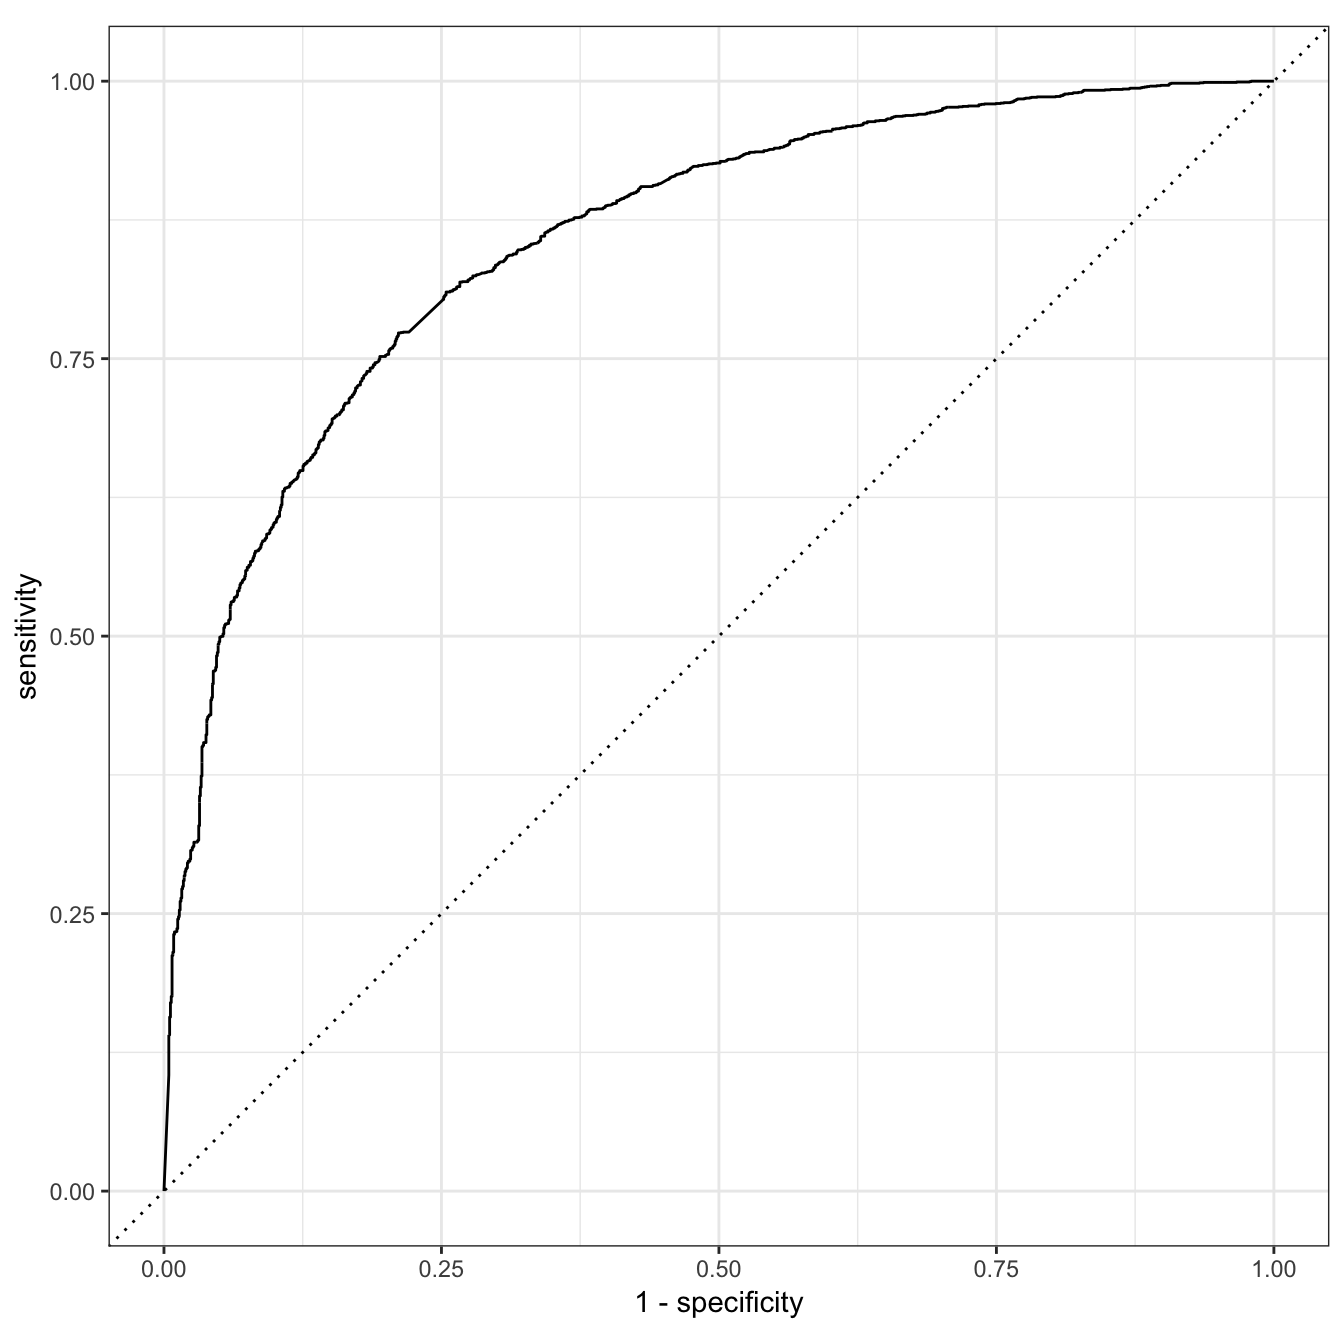
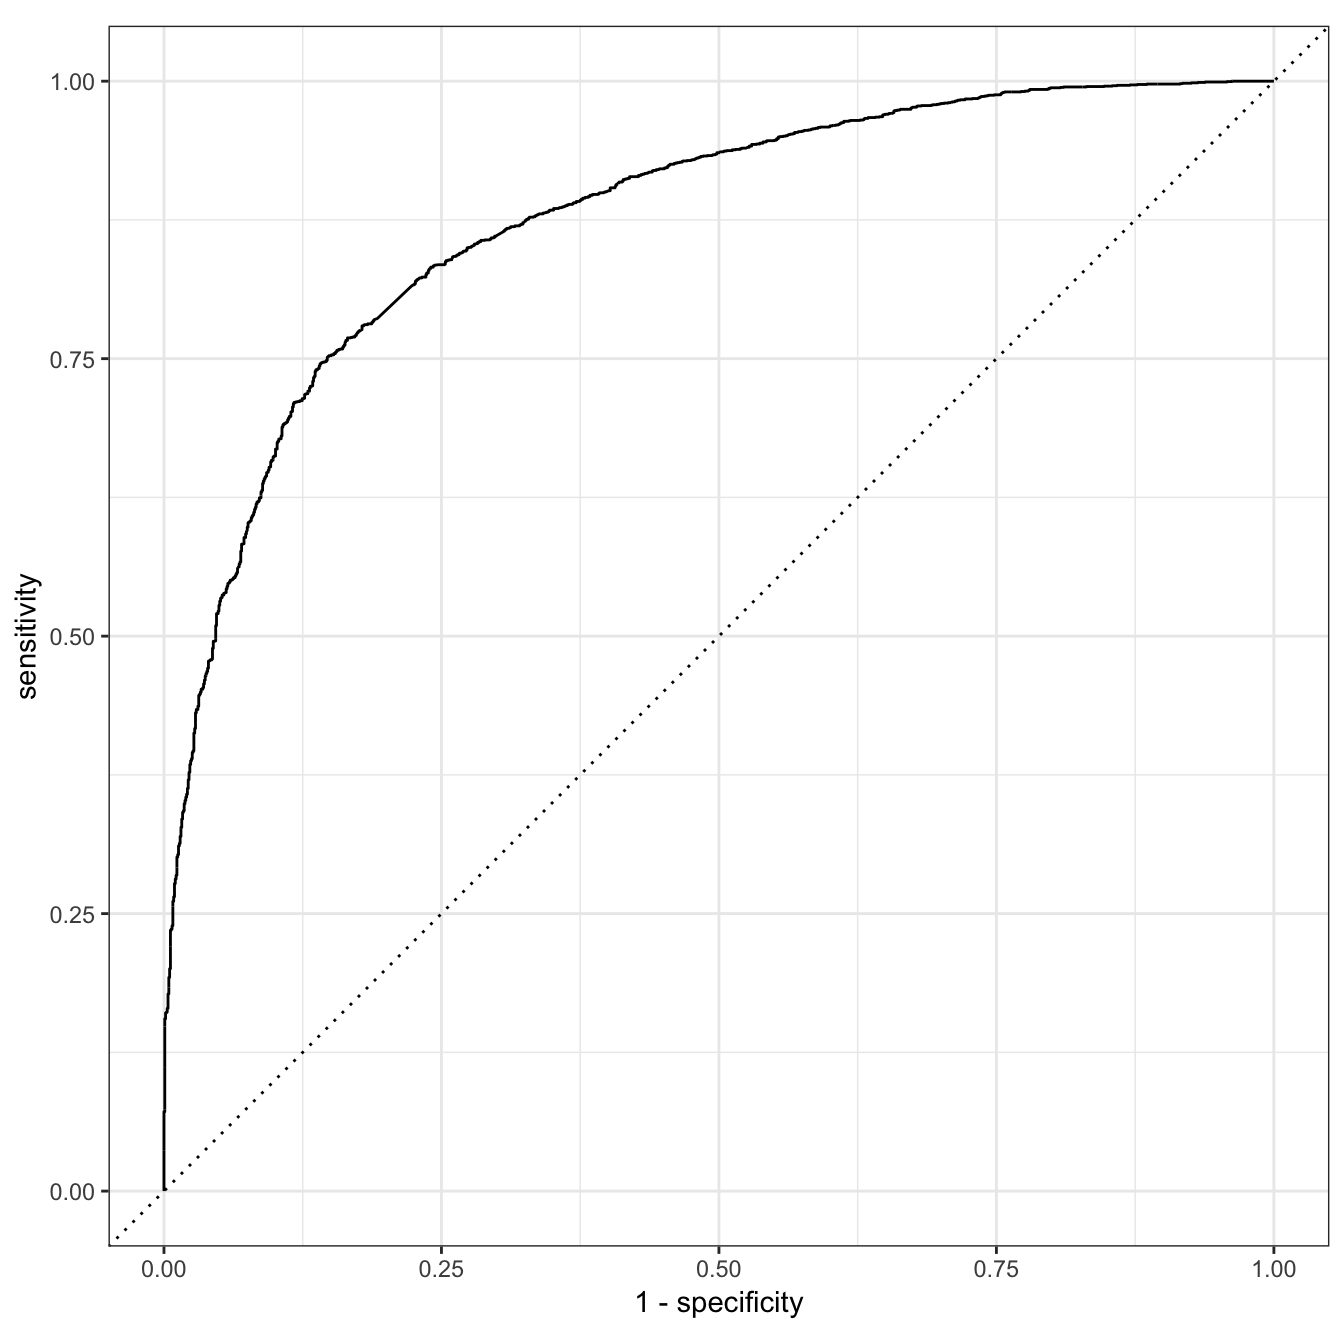
change engine from glm to glmnet

diff --git a/content/blog/2018-12-29-text-classification-with-tidymodels.html b/content/blog/2018-12-29-text-classification-with-tidymodels.html
@@ -129,25 +129,33 @@ stopwords(language = &quot;en&quot;, source = &quot;snowball&quot;) %&gt;% sort(
 <pre class="r"><code>library(tokenizers)
 tokenize_ngrams(sentence, n = 3)</code></pre>
 <pre><code>## [[1]]
-##  [1] &quot;this a sample&quot;        &quot;a sample sentence&quot;    &quot;sample sentence that&quot;
-##  [4] &quot;sentence that is&quot;     &quot;that is used&quot;         &quot;is used to&quot;          
-##  [7] &quot;used to explain&quot;      &quot;to explain the&quot;       &quot;explain the concept&quot; 
-## [10] &quot;the concept of&quot;       &quot;concept of ngrams&quot;</code></pre>
+##  [1] &quot;this an example&quot;       &quot;an example sentence&quot;  
+##  [3] &quot;example sentence that&quot; &quot;sentence that is&quot;     
+##  [5] &quot;that is used&quot;          &quot;is used to&quot;           
+##  [7] &quot;used to explain&quot;       &quot;to explain the&quot;       
+##  [9] &quot;explain the concept&quot;   &quot;the concept of&quot;       
+## [11] &quot;concept of ngrams&quot;</code></pre>
 <p>however we would also like to the singular word counts (unigrams) and bigrams (ngrams of length 2). This can easily be done by setting the <code>n_min</code> argument.</p>
 <pre class="r"><code>tokenize_ngrams(sentence, n = 3, n_min = 1)</code></pre>
 <pre><code>## [[1]]
-##  [1] &quot;this&quot;                 &quot;this a&quot;               &quot;this a sample&quot;       
-##  [4] &quot;a&quot;                    &quot;a sample&quot;             &quot;a sample sentence&quot;   
-##  [7] &quot;sample&quot;               &quot;sample sentence&quot;      &quot;sample sentence that&quot;
-## [10] &quot;sentence&quot;             &quot;sentence that&quot;        &quot;sentence that is&quot;    
-## [13] &quot;that&quot;                 &quot;that is&quot;              &quot;that is used&quot;        
-## [16] &quot;is&quot;                   &quot;is used&quot;              &quot;is used to&quot;          
-## [19] &quot;used&quot;                 &quot;used to&quot;              &quot;used to explain&quot;     
-## [22] &quot;to&quot;                   &quot;to explain&quot;           &quot;to explain the&quot;      
-## [25] &quot;explain&quot;              &quot;explain the&quot;          &quot;explain the concept&quot; 
-## [28] &quot;the&quot;                  &quot;the concept&quot;          &quot;the concept of&quot;      
-## [31] &quot;concept&quot;              &quot;concept of&quot;           &quot;concept of ngrams&quot;   
-## [34] &quot;of&quot;                   &quot;of ngrams&quot;            &quot;ngrams&quot;</code></pre>
+##  [1] &quot;this&quot;                  &quot;this an&quot;              
+##  [3] &quot;this an example&quot;       &quot;an&quot;                   
+##  [5] &quot;an example&quot;            &quot;an example sentence&quot;  
+##  [7] &quot;example&quot;               &quot;example sentence&quot;     
+##  [9] &quot;example sentence that&quot; &quot;sentence&quot;             
+## [11] &quot;sentence that&quot;         &quot;sentence that is&quot;     
+## [13] &quot;that&quot;                  &quot;that is&quot;              
+## [15] &quot;that is used&quot;          &quot;is&quot;                   
+## [17] &quot;is used&quot;               &quot;is used to&quot;           
+## [19] &quot;used&quot;                  &quot;used to&quot;              
+## [21] &quot;used to explain&quot;       &quot;to&quot;                   
+## [23] &quot;to explain&quot;            &quot;to explain the&quot;       
+## [25] &quot;explain&quot;               &quot;explain the&quot;          
+## [27] &quot;explain the concept&quot;   &quot;the&quot;                  
+## [29] &quot;the concept&quot;           &quot;the concept of&quot;       
+## [31] &quot;concept&quot;               &quot;concept of&quot;           
+## [33] &quot;concept of ngrams&quot;     &quot;of&quot;                   
+## [35] &quot;of ngrams&quot;             &quot;ngrams&quot;</code></pre>
 <p>Now we get unigrams, bigrams and trigrams in one. But wait, we wanted to limit our focus to stop words. Here is how the end result will look once we exclude all non-stop words and perform the ngram operation.</p>
 <pre class="r"><code>tokenize_words(sentence) %&gt;%
   unlist() %&gt;%
@@ -155,12 +163,13 @@ tokenize_ngrams(sentence, n = 3)</code></pre>
   paste(collapse = &quot; &quot;) %&gt;%
   print() %&gt;%
   tokenize_ngrams(n = 3, n_min = 1)</code></pre>
-<pre><code>## [1] &quot;this a that is to the of&quot;</code></pre>
+<pre><code>## [1] &quot;this an that is to the of&quot;</code></pre>
 <pre><code>## [[1]]
-##  [1] &quot;this&quot;        &quot;this a&quot;      &quot;this a that&quot; &quot;a&quot;           &quot;a that&quot;     
-##  [6] &quot;a that is&quot;   &quot;that&quot;        &quot;that is&quot;     &quot;that is to&quot;  &quot;is&quot;         
-## [11] &quot;is to&quot;       &quot;is to the&quot;   &quot;to&quot;          &quot;to the&quot;      &quot;to the of&quot;  
-## [16] &quot;the&quot;         &quot;the of&quot;      &quot;of&quot;</code></pre>
+##  [1] &quot;this&quot;         &quot;this an&quot;      &quot;this an that&quot; &quot;an&quot;          
+##  [5] &quot;an that&quot;      &quot;an that is&quot;   &quot;that&quot;         &quot;that is&quot;     
+##  [9] &quot;that is to&quot;   &quot;is&quot;           &quot;is to&quot;        &quot;is to the&quot;   
+## [13] &quot;to&quot;           &quot;to the&quot;       &quot;to the of&quot;    &quot;the&quot;         
+## [17] &quot;the of&quot;       &quot;of&quot;</code></pre>
 <p>We have quite a reduction in ngrams then the full sentence, but hopefully there is some information within.</p>
 </div>
 <div id="training-testing-split" class="section level2">
@@ -273,7 +282,7 @@ str(stopword_train_data, list.len = 10)</code></pre>
 <h2>Modeling</h2>
 <p>For modeling we will be using the <a href="https://github.com/tidymodels/parsnip">parsnip</a> package from tidymodels. First we start by defining a model specification. This defines the intent of our model, what we want to do, not what we want to do it on. Meaning we don’t include the data yet, just the kind of model, its hyperparameters and the engine (the package that will do the work). We will be be using glmnet package here so we will specify a logistic regression model</p>
 <pre class="r"><code>glmnet_model &lt;- logistic_reg(mixture = 0, penalty = 0.1) %&gt;%
-  set_engine(&quot;glm&quot;)
+  set_engine(&quot;glmnet&quot;)
 glmnet_model</code></pre>
 <pre><code>## Logistic Regression Model Specification (classification)
 ## 
@@ -281,8 +290,8 @@ glmnet_model</code></pre>
 ##   penalty = 0.1
 ##   mixture = 0
 ## 
-## Computational engine: glm</code></pre>
-<p>Here we will fit the models using both our training data, first using the stop words, then using the simple would count approach. This will take a while as we are dealing with over 1000 features in both cases.</p>
+## Computational engine: glmnet</code></pre>
+<p>Here we will fit the models using both our training data, first using the stop words, then using the simple would count approach.</p>
 <pre class="r"><code>stopword_model &lt;- glmnet_model %&gt;%
   fit(title ~ ., data = stopword_train_data)
 
@@ -306,28 +315,28 @@ eval_tibble</code></pre>
 <pre><code>## # A tibble: 4,058 x 5
 ##    title         class_stopword    class_julia     prop_stopword prop_julia
 ##    &lt;fct&gt;         &lt;fct&gt;             &lt;fct&gt;                   &lt;dbl&gt;      &lt;dbl&gt;
-##  1 The War of t… Pride and Prejud… Pride and Prej…        0.0493     0.0228
-##  2 The War of t… Pride and Prejud… The War of the…        0.365      0.852 
-##  3 The War of t… The War of the W… The War of the…        0.816      1.000 
-##  4 The War of t… The War of the W… The War of the…        0.686      0.958 
-##  5 The War of t… Pride and Prejud… The War of the…        0.480      0.907 
-##  6 The War of t… The War of the W… The War of the…        0.709      0.996 
-##  7 The War of t… The War of the W… The War of the…        0.928      0.743 
-##  8 The War of t… The War of the W… The War of the…        0.915      1.000 
-##  9 The War of t… Pride and Prejud… The War of the…        0.0737     0.550 
-## 10 The War of t… The War of the W… The War of the…        0.842      1.000 
+##  1 The War of t… Pride and Prejud… Pride and Prej…         0.332      0.195
+##  2 The War of t… Pride and Prejud… Pride and Prej…         0.376      0.452
+##  3 The War of t… The War of the W… The War of the…         0.613      0.836
+##  4 The War of t… The War of the W… The War of the…         0.535      0.515
+##  5 The War of t… Pride and Prejud… The War of the…         0.361      0.591
+##  6 The War of t… Pride and Prejud… The War of the…         0.475      0.643
+##  7 The War of t… The War of the W… Pride and Prej…         0.646      0.412
+##  8 The War of t… The War of the W… The War of the…         0.619      0.579
+##  9 The War of t… Pride and Prejud… Pride and Prej…         0.265      0.427
+## 10 The War of t… The War of the W… The War of the…         0.697      0.894
 ## # ... with 4,048 more rows</code></pre>
 <p>Tidymodels includes the <a href="https://github.com/tidymodels/yardstick">yardstick</a> package which makes evaluation calculations much easier and tidy. It can allow us to calculate the accuracy by calling the <code>accuracy()</code> function</p>
 <pre class="r"><code>accuracy(eval_tibble, truth = title, estimate = class_stopword)</code></pre>
 <pre><code>## # A tibble: 1 x 3
 ##   .metric  .estimator .estimate
 ##   &lt;chr&gt;    &lt;chr&gt;          &lt;dbl&gt;
-## 1 accuracy binary         0.791</code></pre>
+## 1 accuracy binary         0.800</code></pre>
 <pre class="r"><code>accuracy(eval_tibble, truth = title, estimate = class_julia)</code></pre>
 <pre><code>## # A tibble: 1 x 3
 ##   .metric  .estimator .estimate
 ##   &lt;chr&gt;    &lt;chr&gt;          &lt;dbl&gt;
-## 1 accuracy binary         0.898</code></pre>
+## 1 accuracy binary         0.911</code></pre>
 <p>And we see that the stop words model beats the naive model (one that always picks the majority class), while lacking behind the word count model.</p>
 <pre class="r"><code>test_data %&gt;%
   filter(text != &quot;&quot;) %&gt;%
